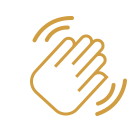
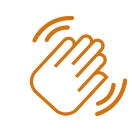
Adicionando cores nos botões de performance

Changed region(s): [[0.2121, 0.2424, 0.8485, 0.8788], [0.697, 0.5758, 0.9697, 0.8788], [0.2424, 0.1212, 0.5758, 0.3333]]

diff --git a/UnidosPerderemos/Views/Daily/PerformanceButton.cs b/UnidosPerderemos/Views/Daily/PerformanceButton.cs
@@ -36,7 +36,7 @@ namespace UnidosPerderemos.Views.Daily
 		{
 			IsSelected = false;
 
-			Button.Image = ImageSource.FromFile(string.Concat(Performance.ToString(), ".png")) as FileImageSource;
+			Button.Image = ImageSource.FromFile(string.Concat(Performance.ToString(), "Color.png")) as FileImageSource;
 			Button.Clicked += OnSelectPerformance;
 		}
 
@@ -78,7 +78,7 @@ namespace UnidosPerderemos.Views.Daily
 			}
 			set {
 				Box.BackgroundColor = Color.White.MultiplyAlpha(value ? 0.3d : 0.2d);
-				Button.Opacity = value ? 1d : 0.4d;
+				Button.Opacity = value ? 1d : 0.5d;
 			}
 		}
 
